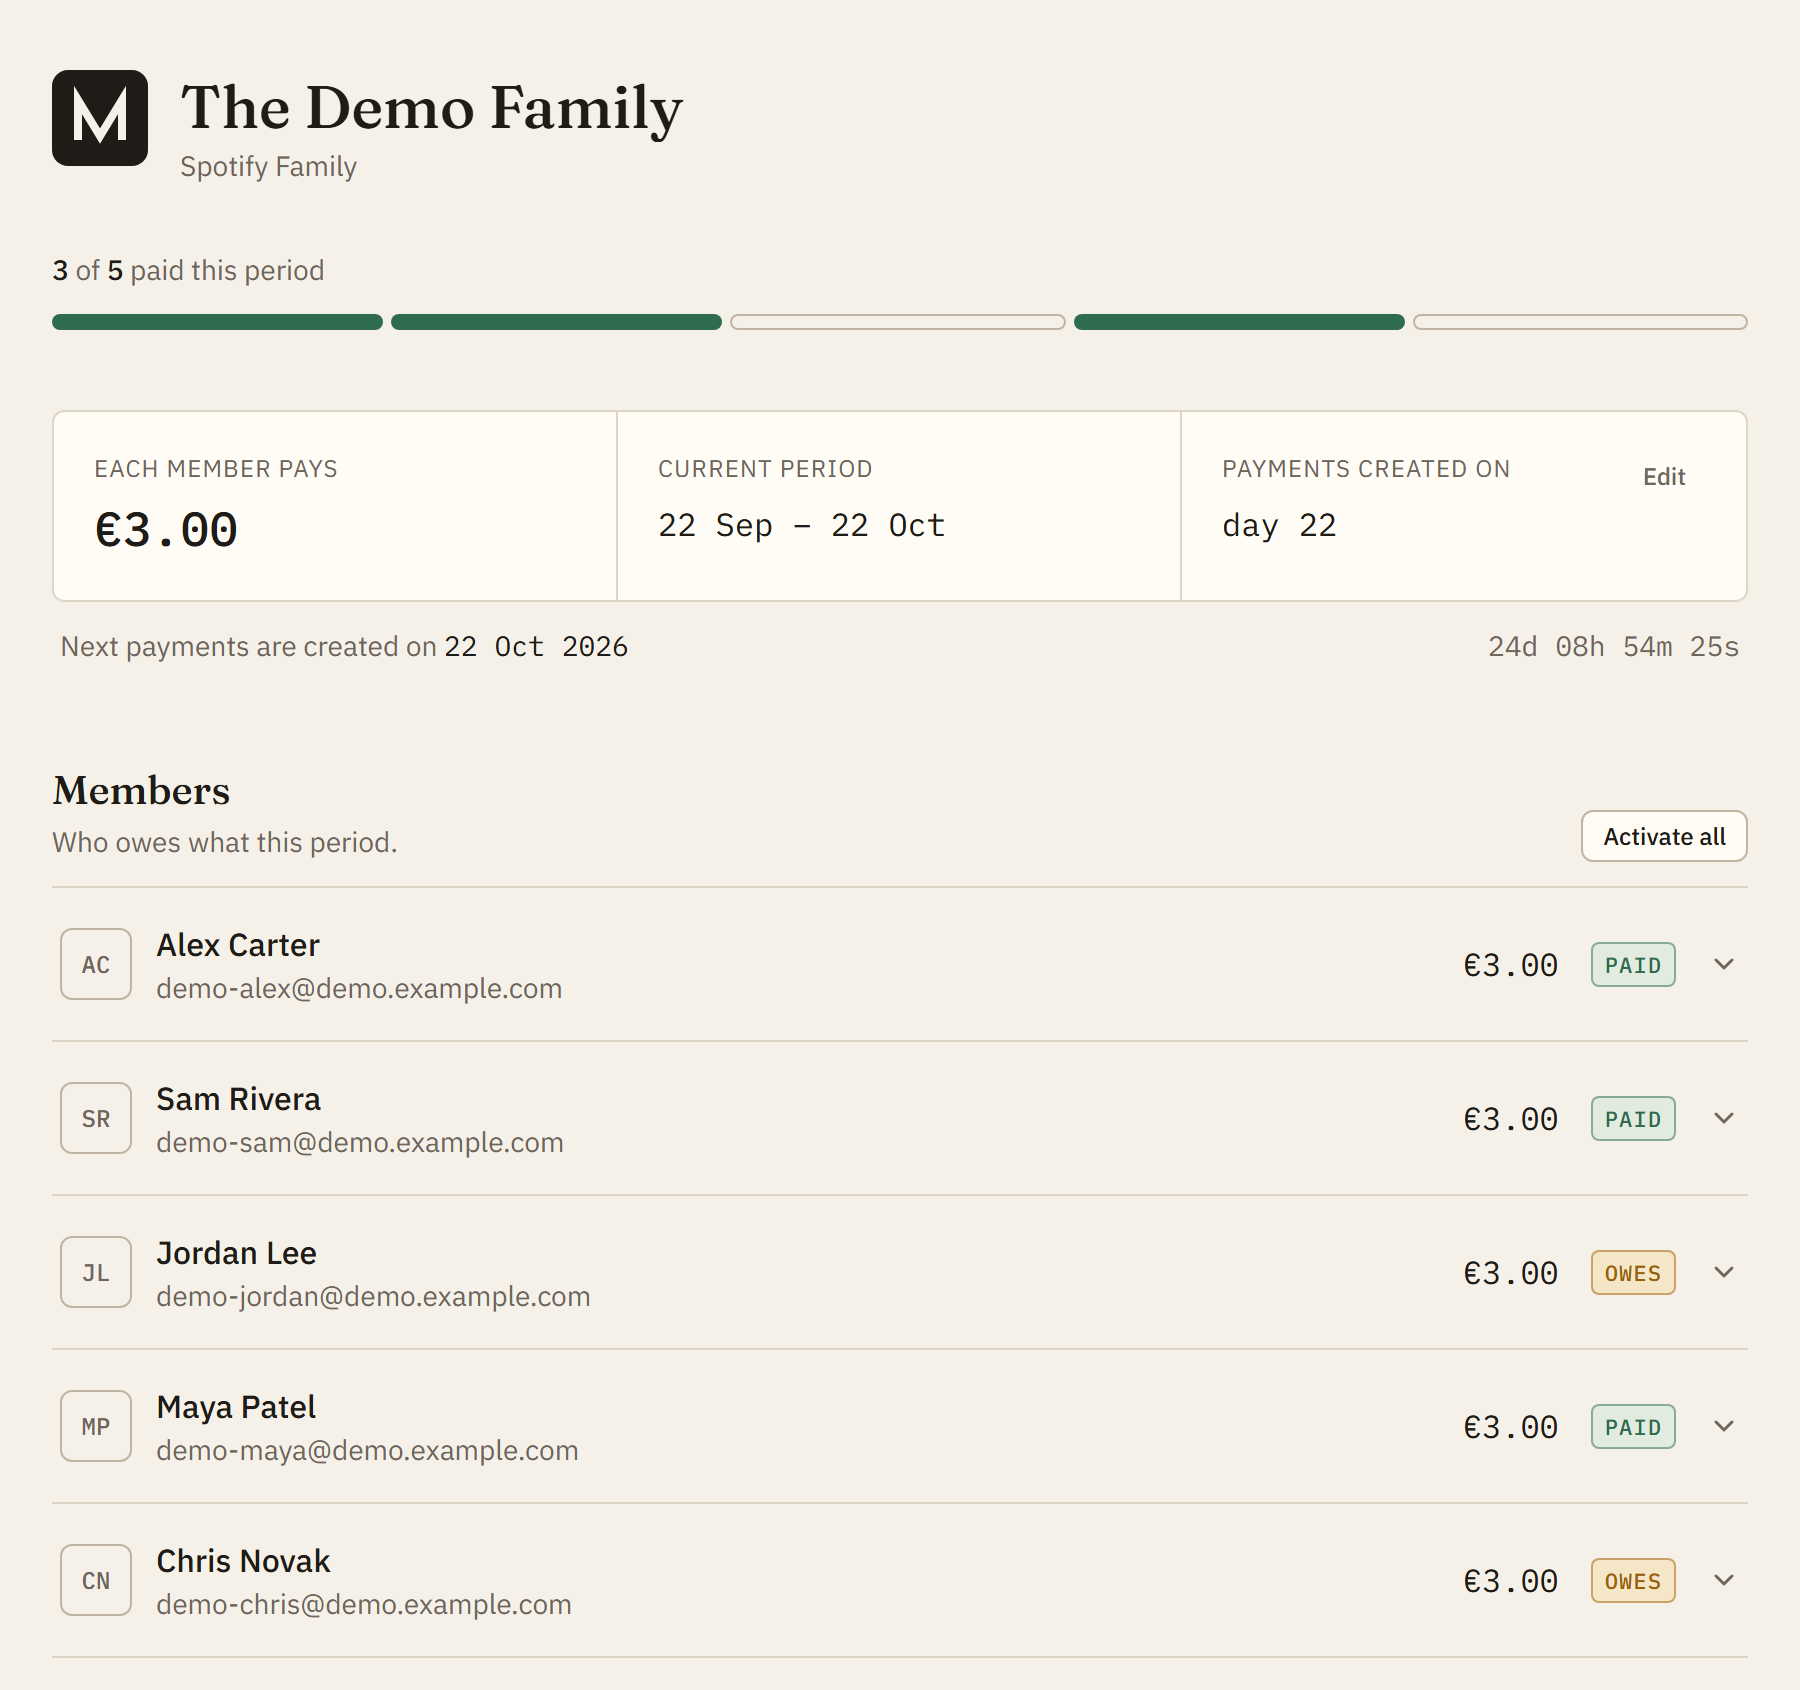
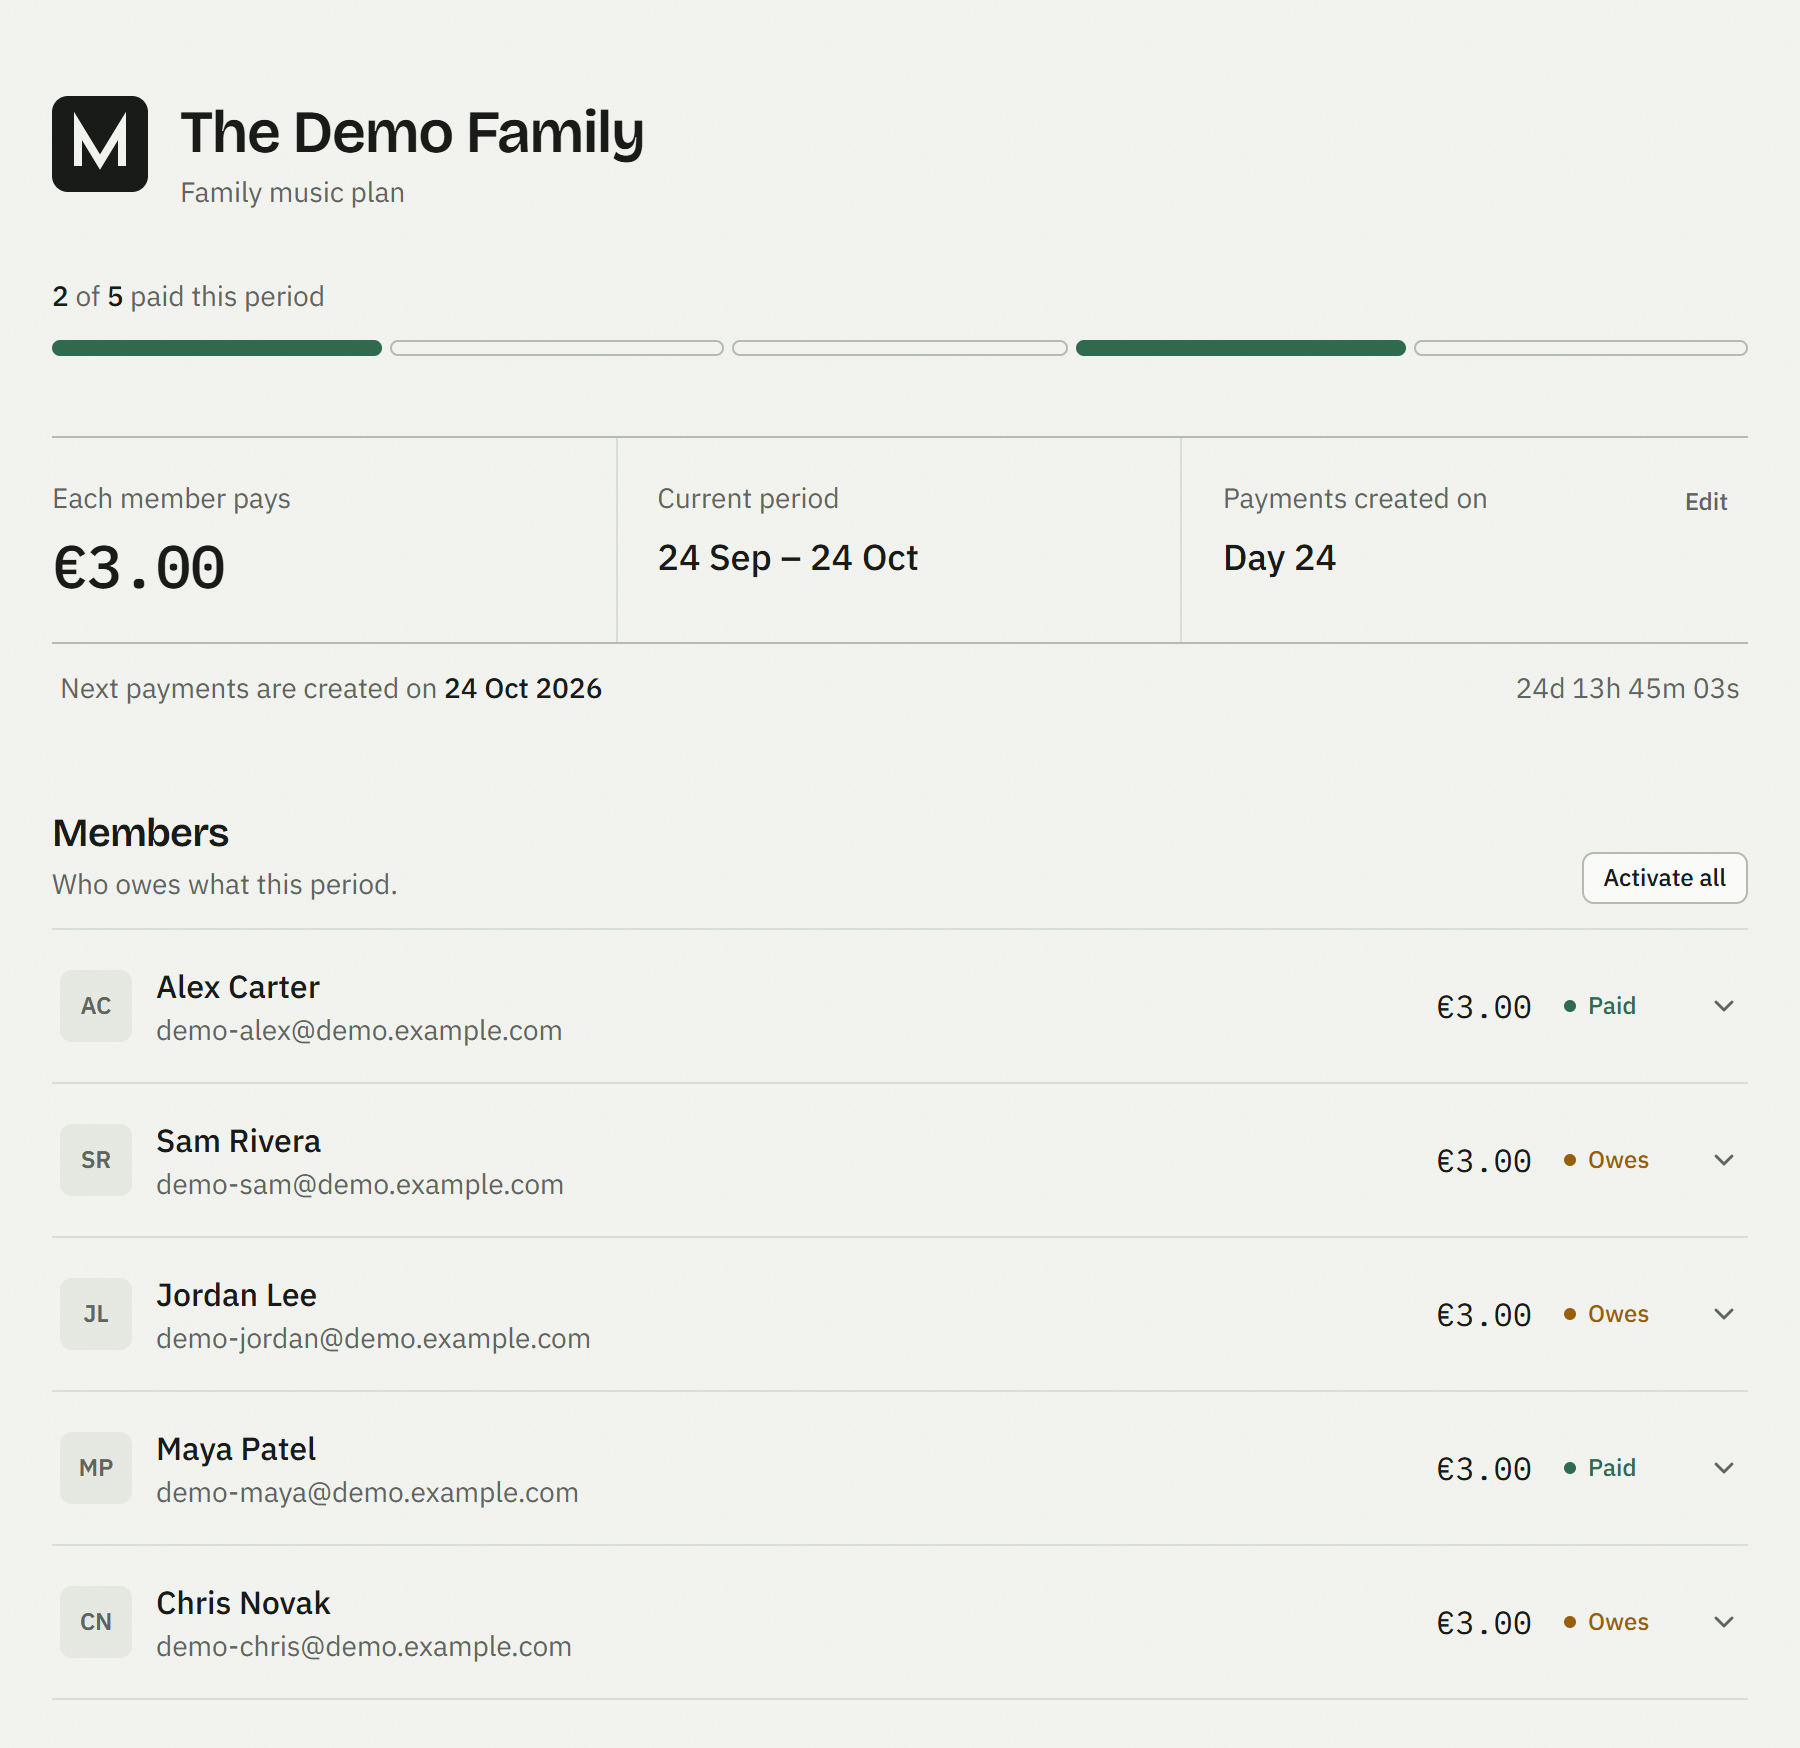
deisign: Design Changes

diff --git a/app/globals.css b/app/globals.css
@@ -1,7 +1,9 @@
 @import "tailwindcss";
 
 /*
- * Ledger palette: warm paper, dark ink, hairline rules. Colour carries
+ * Ledger palette: cool grey-green paper, dark ink, hairline rules. The
+ * neutrals share the accent's green tint, so the page and "paid" feel like
+ * one family instead of a cream page with a green sticker on it. Colour carries
  * meaning only: green = paid, ochre = pending, brick = error/destructive.
  * Components use these tokens, never raw colours, so dark mode is just a
  * second set of values.
@@ -9,16 +11,16 @@
 :root {
   color-scheme: light;
 
-  --background: #f5f1e8;
-  --surface: #fffcf6;
-  --surface-muted: #ece6d9;
-  --foreground: #1f1c17;
-  --muted: #6e665a;
-  --border: #ddd5c6;
-  --border-strong: #bfb5a2;
+  --background: #f3f4f0;
+  --surface: #fbfcfa;
+  --surface-muted: #e7eae3;
+  --foreground: #181b18;
+  --muted: #5f665e;
+  --border: #dadfd6;
+  --border-strong: #b5bcb0;
 
   --accent: #2f6b4f;
-  --accent-soft: #e1ebdf;
+  --accent-soft: #dde9e0;
   --pending: #9a5f0c;
   --pending-soft: #f4e6c6;
   --danger: #a8321f;
@@ -29,13 +31,13 @@
   :root {
     color-scheme: dark;
 
-    --background: #171512;
-    --surface: #1f1c18;
-    --surface-muted: #2a2621;
-    --foreground: #eee8dc;
-    --muted: #a39a8b;
-    --border: #36312a;
-    --border-strong: #4d463c;
+    --background: #131513;
+    --surface: #1a1d1a;
+    --surface-muted: #242823;
+    --foreground: #e6eae4;
+    --muted: #979f95;
+    --border: #2e332d;
+    --border-strong: #444c42;
 
     --accent: #86bf9d;
     --accent-soft: rgba(134, 191, 157, 0.13);
@@ -63,7 +65,7 @@
 
   --font-sans: var(--font-plex-sans);
   --font-mono: var(--font-plex-mono);
-  --font-display: var(--font-fraunces);
+  --font-display: var(--font-bricolage);
 }
 
 body {
@@ -96,14 +98,18 @@ body::after {
 }
 
 /* Display headings: tighter tracking, and no single word stranded on the last line. */
-h1,
-h2 {
-  letter-spacing: -0.015em;
-  text-wrap: balance;
-}
+/* In @layer base so utilities like tracking-tight can still override them;
+   unlayered CSS would beat every Tailwind class. */
+@layer base {
+  h1,
+  h2 {
+    letter-spacing: -0.02em;
+    text-wrap: balance;
+  }
 
-p {
-  text-wrap: pretty;
+  p {
+    text-wrap: pretty;
+  }
 }
 
 /* Respect the OS "reduce motion" setting: no pulsing skeletons or sliding rows. */

diff --git a/app/pay/[token]/page.tsx b/app/pay/[token]/page.tsx
@@ -63,7 +63,7 @@ export default async function PaymentPage({ params }: Props) {
           <p className="text-sm text-muted">{familyName}</p>
         </header>
 
-        <h1 className="mt-8 font-display text-4xl font-medium">
+        <h1 className="mt-8 font-display text-4xl font-semibold">
           Hi, {member.user.name.split(" ")[0]}.
         </h1>
 
@@ -97,7 +97,7 @@ export default async function PaymentPage({ params }: Props) {
         {pastPayments.length > 0 && (
           <section className="mt-10">
             <div className="flex items-baseline justify-between border-b border-border pb-2">
-              <h2 className="font-display text-lg font-medium">Earlier months</h2>
+              <h2 className="font-display text-lg font-semibold">Earlier months</h2>
               <span className="text-xs tabular-nums text-muted">
                 {pastPayments.filter((p) => p.status === "paid").length}/
                 {pastPayments.length} paid
@@ -119,7 +119,7 @@ export default async function PaymentPage({ params }: Props) {
 
                     <span className="flex items-center gap-3">
                       <Amount cents={past.amountCents} />
-                      <Badge tone={pastPaid ? "success" : "pending"}>
+                      <Badge tone={pastPaid ? "success" : "pending"} className="w-14">
                         {pastPaid ? "Paid" : "Owed"}
                       </Badge>
                     </span>

diff --git a/app/layout.tsx b/app/layout.tsx
@@ -1,12 +1,15 @@
 import type { Metadata } from "next";
-import { Fraunces, IBM_Plex_Mono, IBM_Plex_Sans } from "next/font/google";
+import { Bricolage_Grotesque, IBM_Plex_Mono, IBM_Plex_Sans } from "next/font/google";
 import "./globals.css";
 
-// Serif for headings, Plex for text, Plex Mono for money only. Dates and
-// counts stay in Plex with tabular figures, so mono always means "an amount".
-const fraunces = Fraunces({
-  variable: "--font-fraunces",
+// Bricolage Grotesque for headings, Plex for text, Plex Mono for money only.
+// Dates and counts stay in Plex with tabular figures, so mono always means
+// "an amount". Optical sizing ("opsz") draws big headlines with tighter,
+// chunkier shapes than small ones, the way the typeface was designed.
+const bricolage = Bricolage_Grotesque({
+  variable: "--font-bricolage",
   subsets: ["latin"],
+  axes: ["opsz"],
 });
 
 const plexSans = IBM_Plex_Sans({
@@ -30,7 +33,7 @@ export default function RootLayout({ children }: LayoutProps<"/">) {
   return (
     <html
       lang="en"
-      className={`${fraunces.variable} ${plexSans.variable} ${plexMono.variable} h-full antialiased`}
+      className={`${bricolage.variable} ${plexSans.variable} ${plexMono.variable} h-full antialiased`}
     >
       <body className="flex min-h-full flex-col">{children}</body>
     </html>

diff --git a/app/_components/SampleLedger.tsx b/app/_components/SampleLedger.tsx
@@ -22,10 +22,10 @@ export default function SampleLedger() {
 
       <figure
         aria-label="Example of a month in Merio"
-        className="relative rounded-md border border-border bg-surface shadow-[0_18px_40px_-24px_rgb(60_45_20/0.35)]"
+        className="relative rounded-md border border-border bg-surface shadow-[0_18px_40px_-24px_rgb(24_40_30/0.3)]"
       >
         <figcaption className="flex items-baseline justify-between border-b border-border px-5 py-3.5">
-          <span className="font-display text-lg font-medium">Spotify Family</span>
+          <span className="font-display text-lg font-semibold">Family music plan</span>
           <span className="text-xs tabular-nums text-muted">15 Mar – 15 Apr</span>
         </figcaption>
 
@@ -38,7 +38,7 @@ export default function SampleLedger() {
               <span>{row.name}</span>
               <span className="flex items-center gap-5">
                 <Amount cents={row.amountCents} />
-                <Badge tone={row.paid ? "success" : "pending"} className="w-12">
+                <Badge tone={row.paid ? "success" : "pending"} className="w-14">
                   {row.paid ? "Paid" : "Owes"}
                 </Badge>
               </span>

diff --git a/app/page.tsx b/app/page.tsx
@@ -12,7 +12,7 @@ export default function Home() {
         <nav className="mx-auto flex w-full max-w-5xl items-center justify-between px-6 py-4">
           <div className="flex items-center gap-2.5">
             <MerioMark className="h-7 w-7" />
-            <span className="font-display text-xl font-medium">Merio</span>
+            <span className="font-display text-xl font-semibold">Merio</span>
           </div>
 
           <ButtonLink href="/dashboard" variant="ghost" size="sm">
@@ -23,7 +23,7 @@ export default function Home() {
 
       <main className="mx-auto grid w-full max-w-5xl flex-1 content-center items-center gap-12 px-6 py-16 md:grid-cols-[1.25fr_1fr] md:pt-24 md:pb-32">
         <section>
-          <h1 className="font-display text-5xl font-medium leading-[1.05] tracking-tight sm:text-6xl">
+          <h1 className="font-display text-5xl font-semibold leading-[1.05] tracking-tight sm:text-6xl">
             Who&apos;s paid for the family plan this month?
           </h1>
 

diff --git a/app/privacy/page.tsx b/app/privacy/page.tsx
@@ -18,10 +18,10 @@ export default function PrivacyPage() {
     <main className="mx-auto w-full max-w-2xl px-6 py-12 sm:py-16">
       <Link href="/" className="inline-flex items-center gap-2.5">
         <MerioMark className="h-7 w-7" />
-        <span className="font-display text-xl font-medium">Merio</span>
+        <span className="font-display text-xl font-semibold">Merio</span>
       </Link>
 
-      <h1 className="mt-10 font-display text-4xl font-medium">Privacy</h1>
+      <h1 className="mt-10 font-display text-4xl font-semibold">Privacy</h1>
       <p className="mt-2 text-xs tabular-nums text-muted">Last updated {LAST_UPDATED}</p>
 
       <p className="mt-6 text-lg leading-8 text-muted">

diff --git a/app/dashboard/_components/member-row/PaymentHistory.tsx b/app/dashboard/_components/member-row/PaymentHistory.tsx
@@ -29,7 +29,7 @@ export default function PaymentHistory({
                 <Amount cents={payment.amountCents} />
               </td>
               <td className="w-0 py-2 text-right">
-                <Badge tone={paid ? "success" : "pending"}>
+                <Badge tone={paid ? "success" : "pending"} className="w-14">
                   {paid ? "Paid" : "Owed"}
                 </Badge>
               </td>

diff --git a/app/login/page.tsx b/app/login/page.tsx
@@ -14,7 +14,7 @@ export default function LoginPage() {
       <div className="mx-auto w-full max-w-sm">
         <MerioMark className="h-9 w-9" />
 
-        <h1 className="mt-10 font-display text-4xl font-medium">Welcome back.</h1>
+        <h1 className="mt-10 font-display text-4xl font-semibold">Welcome back.</h1>
 
         <p className="mt-2 text-muted">
           Sign in to see who&apos;s paid this month.

diff --git a/components/ui/SectionHeading.tsx b/components/ui/SectionHeading.tsx
@@ -12,7 +12,7 @@ export function SectionHeading({
   return (
     <div className="flex items-end justify-between gap-4 border-b border-border pb-3">
       <div>
-        <h2 className="font-display text-xl font-medium">{title}</h2>
+        <h2 className="font-display text-xl font-semibold">{title}</h2>
 
         {description && <p className="mt-0.5 text-sm text-muted">{description}</p>}
       </div>

diff --git a/app/dashboard/_components/DashboardHeader.tsx b/app/dashboard/_components/DashboardHeader.tsx
@@ -34,7 +34,7 @@ export default function DashboardHeader({
         )}
 
         <div className="min-w-0 flex-1">
-          <h1 className="truncate font-display text-3xl font-medium">
+          <h1 className="truncate font-display text-3xl font-semibold">
             {familyName ?? name}
           </h1>
           {familyName && <p className="mt-0.5 text-sm text-muted">{name}</p>}

diff --git a/app/dashboard/_components/member-row/MemberSummary.tsx b/app/dashboard/_components/member-row/MemberSummary.tsx
@@ -33,7 +33,7 @@ export default function MemberSummary({
           <>
             <Amount cents={current.amountCents} className="hidden sm:inline" />
 
-            <Badge tone={isPaid ? "success" : "pending"}>
+            <Badge tone={isPaid ? "success" : "pending"} className="w-14">
               {isPaid ? "Paid" : "Owes"}
             </Badge>
           </>

diff --git a/components/ui/EmptyState.tsx b/components/ui/EmptyState.tsx
@@ -26,7 +26,7 @@ export function EmptyState({
       >
         <MerioMark className="h-10 w-10" />
 
-        <h1 className="mt-6 font-display text-2xl font-medium">{title}</h1>
+        <h1 className="mt-6 font-display text-2xl font-semibold">{title}</h1>
 
         <div className="mt-2 text-sm leading-6 text-muted">{children}</div>
 
